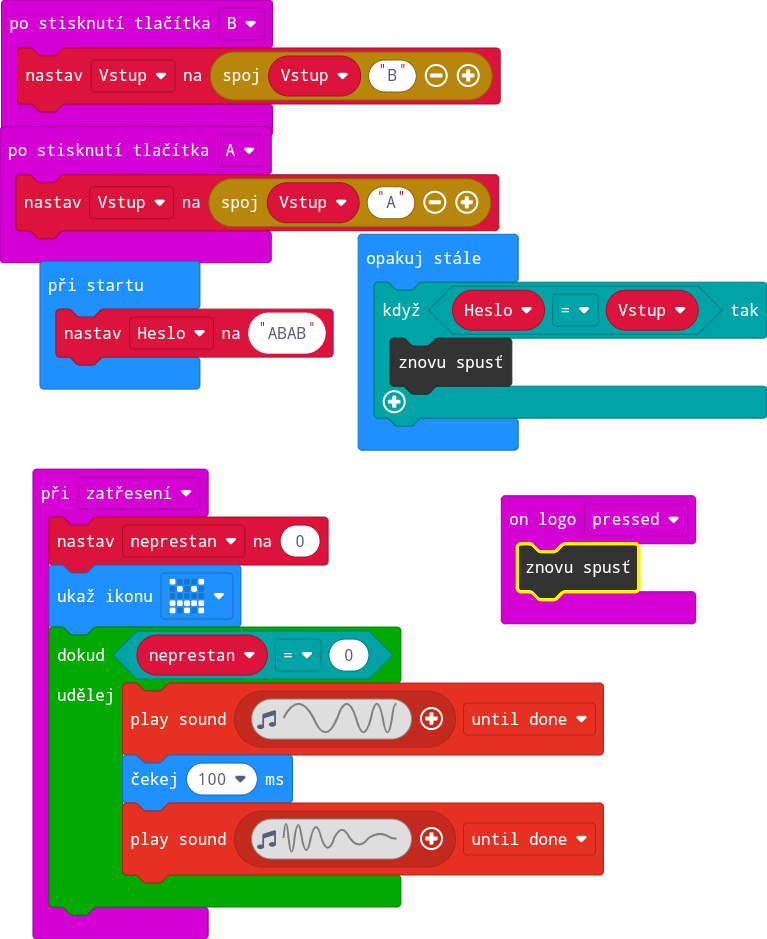
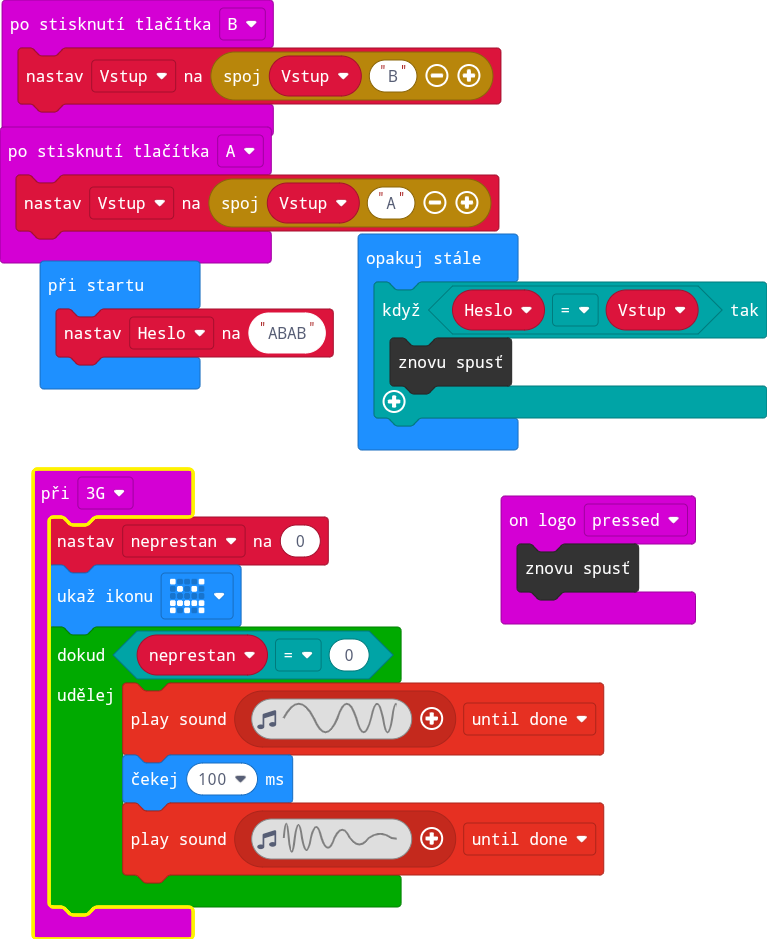
Aktualizovat main.blocks, main.ts

diff --git a/main.ts b/main.ts
@@ -1,10 +1,7 @@
 input.onButtonPressed(Button.A, function () {
     Vstup = "" + Vstup + "A"
 })
-input.onButtonPressed(Button.B, function () {
-    Vstup = "" + Vstup + "B"
-})
-input.onGesture(Gesture.Shake, function () {
+input.onGesture(Gesture.ThreeG, function () {
     neprestan = 0
     basic.showIcon(IconNames.Angry)
     while (neprestan == 0) {
@@ -12,6 +9,9 @@ input.onGesture(Gesture.Shake, function () {
         basic.pause(100)
         music.playSoundEffect(music.createSoundEffect(WaveShape.Sine, 5000, 1, 255, 0, 200, SoundExpressionEffect.None, InterpolationCurve.Linear), SoundExpressionPlayMode.UntilDone)
     }
+})
+input.onButtonPressed(Button.B, function () {
+    Vstup = "" + Vstup + "B"
 })
 input.onLogoEvent(TouchButtonEvent.Pressed, function () {
     control.reset()
